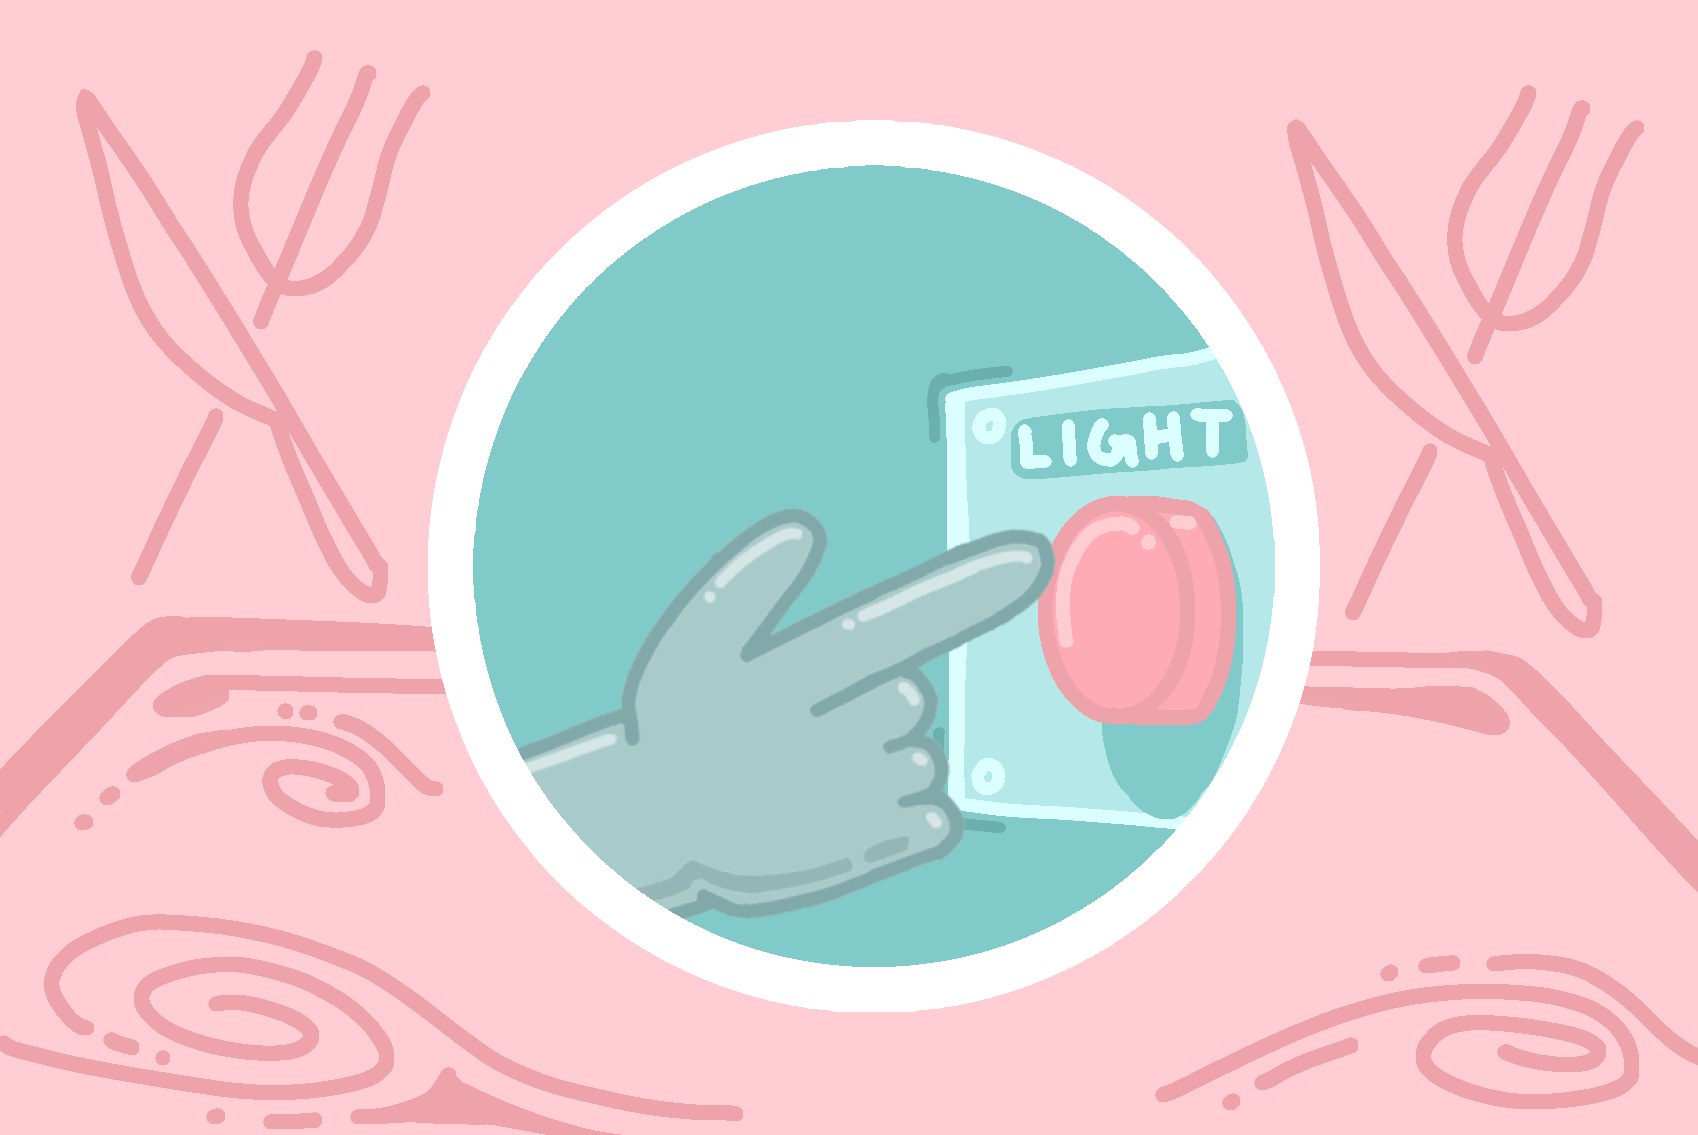
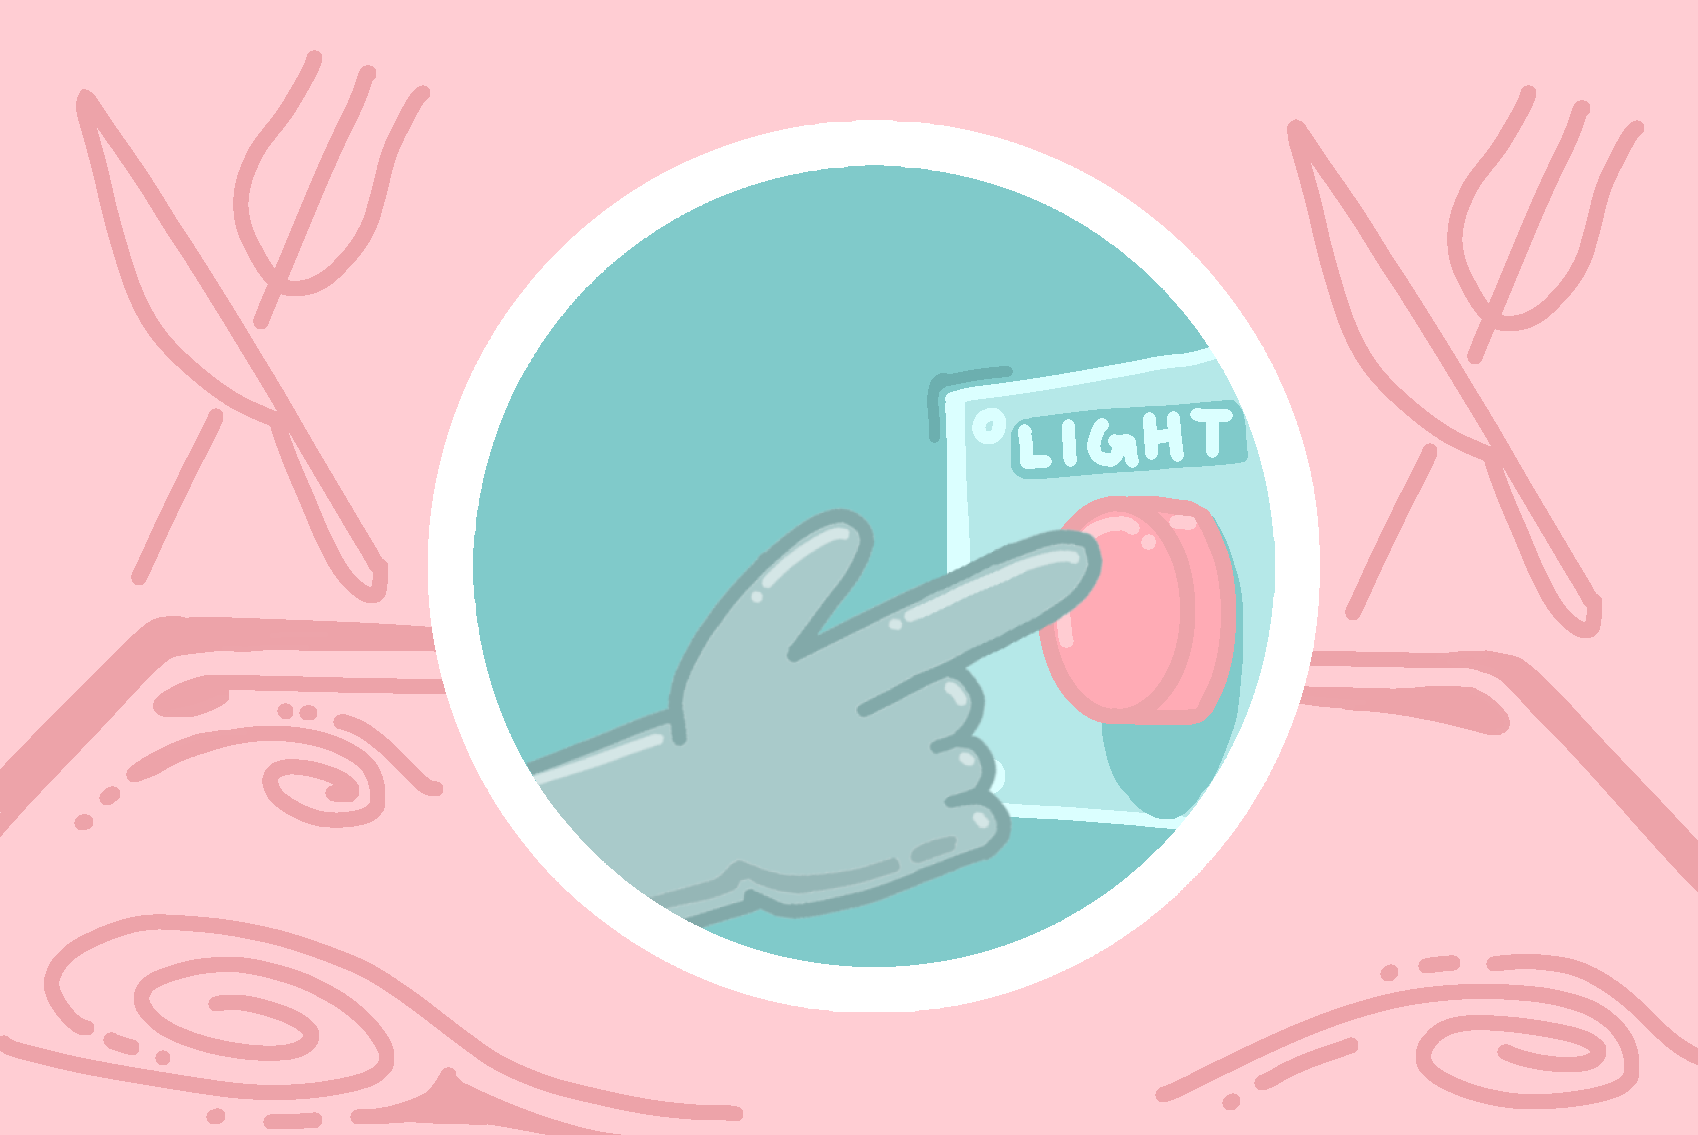
fixed weird animation in lights off

Changed region(s): [[0.3121, 0.4317, 0.6555, 0.8326]]

diff --git a/src/game/scenes/LightsOff.ts b/src/game/scenes/LightsOff.ts
@@ -8,14 +8,14 @@ export class LightsOff extends SceneTemplate {
     }
 
     preload() {
-        for (let i = 1; i <= 11; i++) {
+        for (let i = 1; i <= 10; i++) {
             this.load.image(`image_${i}`, `assets/lightsoff/${i}.png`);
         }
     }
 
     create() {
         let i = 1; 
-        const totalImages = 11;
+        const totalImages = 10;
         const frameRate = 250; 
 
         let cutsceneImage = this.add.image(0, 0, `image_${i}`).setOrigin(0).setDepth(10);
